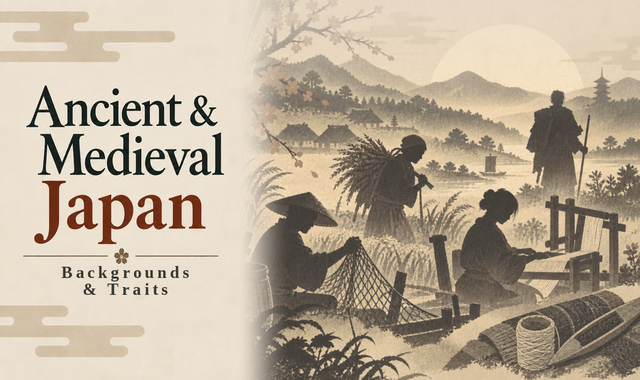
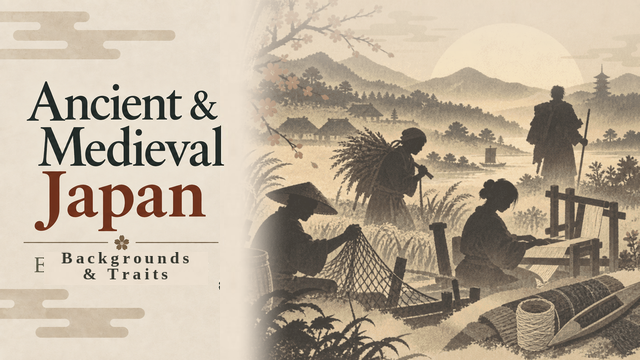
Fix Backgrounds preview to 640x360 and align fixed left with Environment (#58)

diff --git a/Docs/GoldenPaths/WorkshopPreview.md b/Docs/GoldenPaths/WorkshopPreview.md
@@ -33,7 +33,7 @@
 1. Projectの `Art/Sources/Workshop/AMJ_WorkshopCover_Core_Approved_Reference.jpg`、`AMJ_WorkshopCover_CommonBase.png`、`AMJ_WorkshopCover_VariableMask.png` を**実際に取得・開いて比較**し、[登録済みハッシュ](https://github.com/sucRo-RimWorld/Ancient-Medieval-Japan-Project/blob/main/Docs/References/AMJ_WorkshopCover_Manifest.md) と照合する。参照できない場合は想像による代替制作をしない。
 2. 生成・描画するのは**右側の可変イラストのみ**。共通左側やタイトル、背景、装飾は生成対象に含めない。
 3. Project `Scripts/build_workshop_cover.py` で既存マスター・マスクと合成し、`Scripts/validate_workshop_cover.py` で保護範囲の不変性を確認する。変更可能なのは右側可変領域と左側のMod名スロットのみ。
-4. Project共通の**原本・合成マスターは960×540 px、16:9のまま固定**。Backgrounds & Traitsでは作者が候補Fを採用し、公開用`About/Preview.png`を例外的に **640×380 px** と明示指定したため、採用済み960×540完成画像だけをLANCZOSで直接リサイズする（描き直し・トリミング・新しい文字配置は禁止）。これに伴い**縮小後の画素は当然マスターと一致しない**が、保護領域の不変性は縮小前960×540完成画像に対して検証する。Projectの共通原本・可変マスク・960×540制作規則は変更しない。PNGは1 MiB未満。
+4. Project共通の**原本・合成マスターは960×540 px（16:9）のまま固定**。Backgrounds & Traitsの公開用`About/Preview.png`は、Environmentの現行Previewに揃え**640×360 px（16:9）**とする。採用済み候補Fの960×540完成画像からLANCZOSで等比縮小し、トリミング・引き伸ばし・再生成・新しい文字配置を行わない。縮小後にEnvironmentの現行640×360 Previewから、共通左側の固定領域（`x=0..219`のうちMod名スロット`x=44..207, y=252..284`を除く）を画素単位で再使用し、左側の見た目を一致させる。Mod名はBackgrounds / & Traitsの承認済み2行を維持する。縮小前960×540完成画像のProject共通保護領域検証は引き続き有効であり、承認済み原本・マスク・完成マスターは一切変更しない。公開PNGは1 MiB未満。
 5. 配布ZIPや重複した配布ステージングは作らない。採用後はMod本体 `About/Preview.png` に含め、[ReleaseChecklist](../ReleaseChecklist.md) に従う。
 
 ## 候補の監査と採用
@@ -45,4 +45,4 @@
 5. **最終的な美術採用は作者判断。** 承認前に採用済みPreviewやSteam公開済みと扱わない。採用後、元データと完成PNGを保存し、GitHubのトピックブランチ→PR→mainに統合する。
 6. 公開前に承認済みの原本との一致・サイズ・現在のREADME/Workshop文面との整合を再確認する。Steam初回公開は別途承認が必要。
 
[2 lines of base64/hex data omitted]
